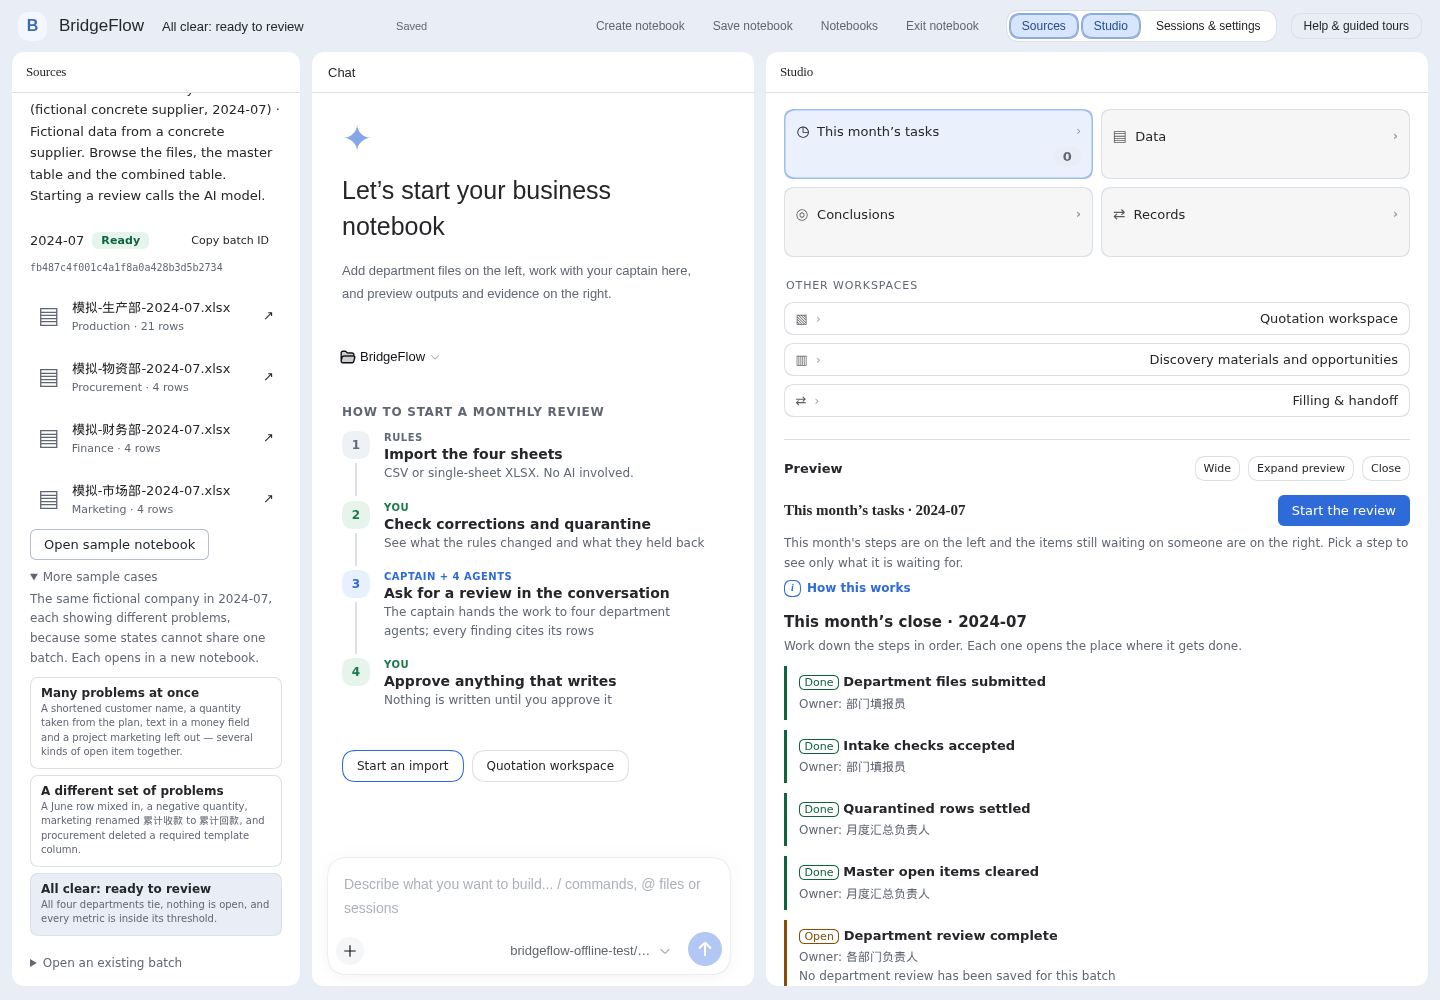
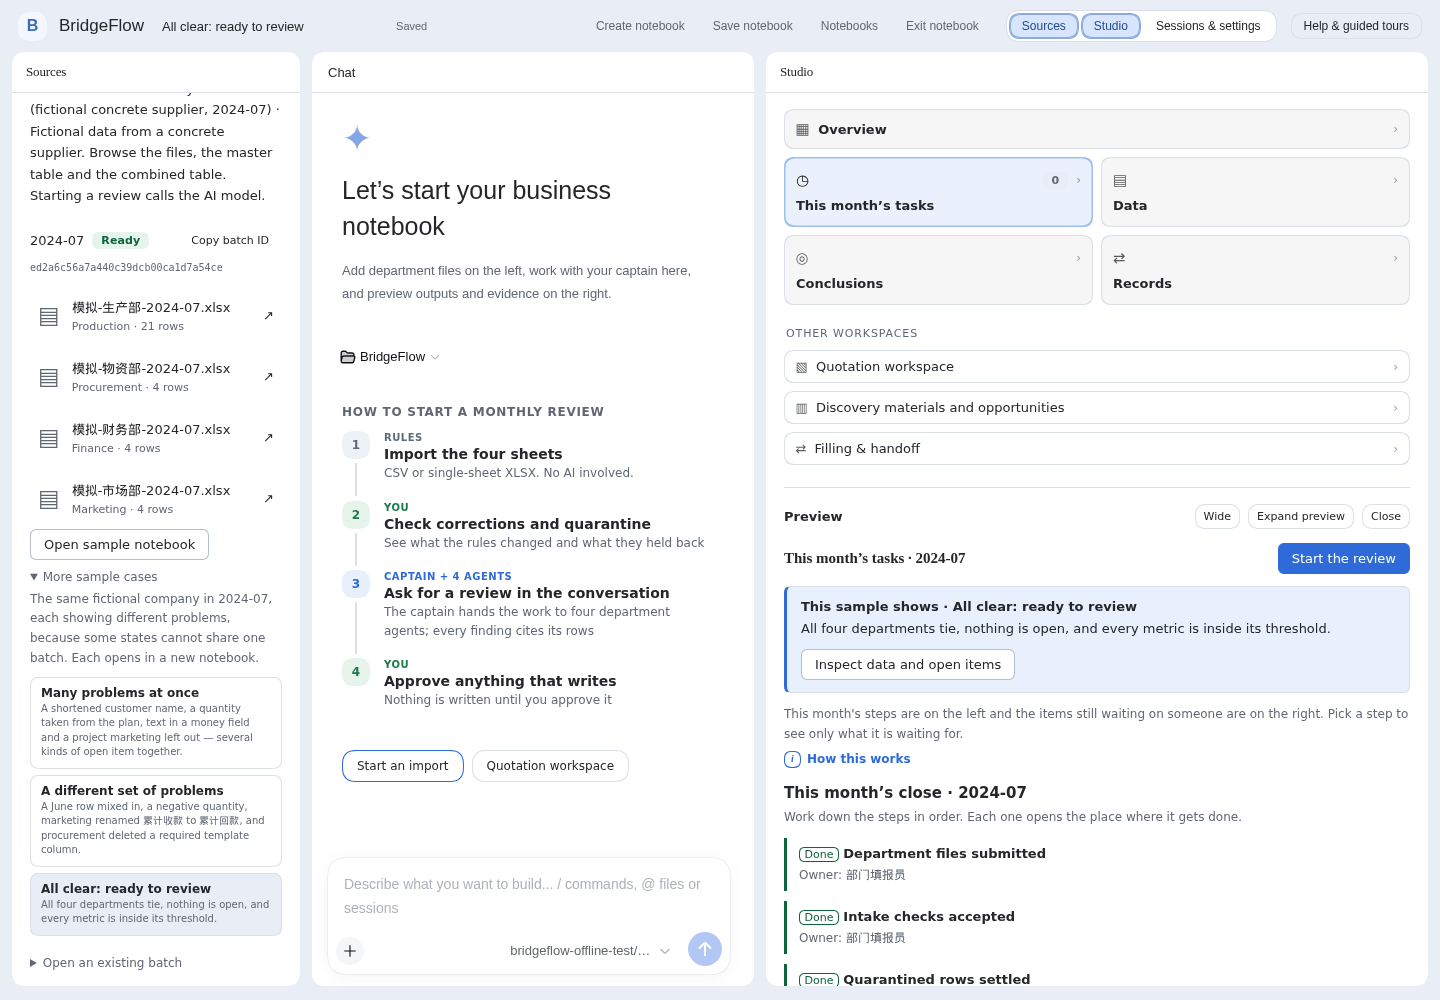
Keep sample notebooks isolated and explain their review path

diff --git a/plugins/src/tools/checklist.ts b/plugins/src/tools/checklist.ts
@@ -27,11 +27,12 @@ export function renderChecklist(result: { period?: string; batch_id?: string; re
 export function checklistTool(config: BackendConfig): ProductTool {
   return withAccess(defineTool({
     name: 'monthly_checklist',
-    description: 'The monthly close checklist for a period: the batch the month is bound to, each declared step with its state (done, open, blocked, unknown), how many things are outstanding, who owns it, and whether the month is ready to close. Counts and names only, never rows. Also the way to find a month\'s batch when someone names a month but no batch id.',
-    parameters: { period: { type: 'string', required: true, description: 'YYYY-MM' } },
+    description: 'The monthly close checklist for a period: the batch it is bound to, each step and who owns it. Pass batch_id when the person is looking at a specific notebook; without it, the latest batch for that period is used. Counts and names only, never rows.',
+    parameters: { period: { type: 'string', required: true, description: 'YYYY-MM' },
+      batch_id: { type: 'string', description: 'Exact batch from the current notebook, if known' } },
     output: { schema: { type: 'object', additionalProperties: true }, render: (_args, value) => renderChecklist(value as Parameters<typeof renderChecklist>[0]) },
     async execute(args, exec) {
-      return callBackend<Record<string, Json>>(config, '/tools/monthly-checklist', { period: args.period }, exec)
+      return callBackend<Record<string, Json>>(config, '/tools/monthly-checklist', { period: args.period, batch_id: args.batch_id ?? '' }, exec)
     },
   }), { kind: 'read' })
 }
@@ -43,7 +44,7 @@ export function checklistTool(config: BackendConfig): ProductTool {
  * and settling happens in the module that holds the evidence and the approval.
  */
 type InboxArgs = { department?: string; kind?: string }
-type InboxText = { total?: number; by_kind?: Record<string, number>; by_department?: Record<string, number>
+type InboxText = { batch_id?: string; total?: number; by_kind?: Record<string, number>; by_department?: Record<string, number>
   items?: { kind: string; subject?: string; detail?: string; departments?: string[]; next_view?: string }[] }
 /**
  * The items themselves, not only their counts. Counts alone sent a real captain back for
@@ -57,7 +58,8 @@ export function renderInbox(args: InboxArgs, result: InboxText) {
   const filter = [args.department && `department=${args.department}`, args.kind && `kind=${args.kind}`].filter(Boolean).join(', ')
   const lines = items.slice(0, 15).map(item => `- ${item.kind}: ${item.subject || '(no subject)'}${item.detail ? ` — ${item.detail}` : ''}`
     + ` [departments: ${(item.departments ?? []).join('/') || 'all'}; settled in: ${item.next_view || 'its module'}]`)
-  return [{ type: 'text' as const, text: `${result.total ?? 0} open item(s) in the period (by kind: ${kinds || 'none'}). `
+  const scope = result.batch_id ? `batch ${result.batch_id}` : 'this period (no batch found)'
+  return [{ type: 'text' as const, text: `${result.total ?? 0} open item(s) in ${scope} (by kind: ${kinds || 'none'}). `
     + `${filter ? `Filtered by ${filter}: ` : ''}${items.length} listed${items.length > 15 ? ', first 15 shown' : ''}.`
     + (lines.length ? `\n${lines.join('\n')}` : '') }]
 }
@@ -65,16 +67,17 @@ export function renderInbox(args: InboxArgs, result: InboxText) {
 export function inboxTool(config: BackendConfig): ProductTool {
   return withAccess(defineTool({
     name: 'monthly_inbox',
-    description: 'Open items for a period across modules (master questions, quarantined rows, column questions, a review left on corrected data): counts by kind and department, and each item with where it is settled. Never rows or cell values; the inbox decides nothing.',
+    description: 'Open items for a period across modules. Pass batch_id when the person is looking at a specific notebook; without it, the latest batch for that period is used. Counts by kind and department, with where each item is settled. Never rows or cell values; the inbox decides nothing.',
     parameters: {
       period: { type: 'string', required: true, description: 'YYYY-MM' },
+      batch_id: { type: 'string', description: 'Exact batch from the current notebook, if known' },
       department: { type: 'string', description: 'Narrow the listing to one department' },
       kind: { type: 'string', description: 'Narrow the listing to one kind of item' },
     },
     output: { schema: { type: 'object', additionalProperties: true }, render: (args, value) => renderInbox(args as InboxArgs, value as InboxText) },
     async execute(args, exec) {
       return callBackend<Record<string, Json>>(config, '/tools/monthly-inbox',
-        { period: args.period, department: args.department ?? '', kind: args.kind ?? '' }, exec)
+        { period: args.period, batch_id: args.batch_id ?? '', department: args.department ?? '', kind: args.kind ?? '' }, exec)
     },
   }), { kind: 'read' })
 }

diff --git a/plugins/src/client/tasks.tsx b/plugins/src/client/tasks.tsx
@@ -1,9 +1,31 @@
-import { useState } from 'react'
+import { useEffect, useState } from 'react'
 import { CloseChecklist, OpenItemInbox } from './checklist.tsx'
 import { WorkflowProgress } from './workflow-progress.tsx'
-import { describeError, startReview, useUI, type Summary } from './ui.ts'
+import { api, describeError, navigate, startReview, useUI, type Summary } from './ui.ts'
 import { Explain } from './explain.tsx'
 import type { projectAudit } from './audit.ts'
+
+type DemoCase = { case_id: string; title: [string, string]; summary: [string, string] }
+
+function DemoCaseGuide({ caseId, batchId }: { caseId: string; batchId: string }) {
+  const { t, language } = useUI()
+  const [sample, setSample] = useState<DemoCase | null>(null)
+  useEffect(() => {
+    const controller = new AbortController()
+    setSample(null)
+    void api<{ cases: DemoCase[] }>('/batches/demo/cases', { signal: controller.signal })
+      .then(value => setSample(value.cases.find(item => item.case_id === caseId) ?? null))
+      .catch(() => { if (!controller.signal.aborted) setSample(null) })
+    return () => controller.abort()
+  }, [caseId])
+  if (!sample) return null
+  const pick = (pair: [string, string]) => pair[language === 'zh' ? 0 : 1]
+  return <div className="bf-callout bf-demo-guide" data-tone="info" role="note">
+    <h3>{t('sampleCaseLabel')} · {pick(sample.title)}</h3>
+    <p>{pick(sample.summary)}</p>
+    <button onClick={() => navigate({ batch: batchId, view: 'data' })}>{t('sampleCaseOpenData')}</button>
+  </div>
+}
 
 /**
  * 本月任务 — the one page that answers "what is still on me this month" (E14-UC01 + E14-UC05).
@@ -27,15 +49,18 @@ export function TasksView({ batchId, summary, audit, savedReportStatus, notebook
   const [focus, setFocus] = useState('')
   const [busy, setBusy] = useState(false), [error, setError] = useState('')
   if (!summary) return <p className="bf-hint">{t('studioStartHelp')}</p>
+  const reviewReady = summary.status === 'ready'
   return <section className="bf-tasks" aria-label={t('closeChecklist')}>
     <div className="bf-card-head">
       <h3>{t('monthlyTasks')} · {summary.period}</h3>
-      <button className="bf-primary" disabled={busy} onClick={async () => {
+      <button className="bf-primary" disabled={busy || !reviewReady} onClick={async () => {
         setError(''); setBusy(true)
         try { await startReview(batchId, summary.period); onRefresh() }
         catch (e) { setError(describeError(e, t)) } finally { setBusy(false) }
       }} data-tour-id="review-start">{t(busy ? 'busy' : 'startReview')}</button>
     </div>
+    {summary.demo_case && <DemoCaseGuide caseId={summary.demo_case} batchId={batchId} />}
+    {!reviewReady && <p className="bf-hint" role="status">{t('reviewNeedsReady')}</p>}
     <p className="bf-hint">{t('monthlyTasksHelp')}</p>
     <Explain text={t('how_tasks')} />
     {error && <p role="alert" className="bf-error">{error}</p>}

diff --git a/plugins/src/client/ui.ts b/plugins/src/client/ui.ts
@@ -122,6 +122,9 @@ const labels = {
   runTokens: ['tokens（发起工具调用的模型步骤）', 'tokens (model steps that called tools)'],
   sampleCases: ['更多示例', 'More sample cases'],
   sampleCasesHelp: ['同一家虚构公司的 2024-07，分别展示不同的问题；有些状态不能放在同一个批次里。每个示例打开成一个新笔记本。', 'The same fictional company in 2024-07, each showing different problems, because some states cannot share one batch. Each opens in a new notebook.'],
+  sampleCaseLabel: ['本示例展示', 'This sample shows'],
+  sampleCaseOpenData: ['查看数据与待确认项', 'Inspect data and open items'],
+  reviewNeedsReady: ['此批次尚需处理数据问题，完成下面的检查后才能发起研判；一处源数据问题可能带出多条下游待办。现在不会向模型发送请求。', 'This batch needs data fixes before a review. One source problem can create several downstream open items. No model request will be sent yet.'],
   reviewBlockers: ['研判会被拒绝，原因：', 'The review would refuse this batch:'],
   next_blocked: ['请修正源表，再用「单部门补传」替换出错部门的文件，这会生成新批次。', 'Correct the source file, then replace that department\'s file; that creates a new batch.'],
   workflowFlow: ['填报与流转流程', 'Filling and handoff flow'],

diff --git a/plugins/src/client/checklist.tsx b/plugins/src/client/checklist.tsx
@@ -31,7 +31,7 @@ export function OpenItemInbox({ period, batchId, focusView = '', onClearFocus }:
     if (!period) return
     const controller = new AbortController()
     setInbox(null); setError('')
-    const query = `period=${encodeURIComponent(period)}${department ? `&department=${encodeURIComponent(department)}` : ''}`
+    const query = `period=${encodeURIComponent(period)}&batch_id=${encodeURIComponent(batchId)}${department ? `&department=${encodeURIComponent(department)}` : ''}`
     void api<Inbox>(`/monthly/inbox?${query}`, { signal: controller.signal })
       .then(setInbox).catch(e => { if (!controller.signal.aborted) setError(describeError(e, t)) })
     return () => controller.abort()
@@ -71,7 +71,7 @@ export function CloseChecklist({ period, batchId, onImport, onFocus, focusView =
     if (!period) return
     const controller = new AbortController()
     setList(null); setError('')
-    void api<Checklist>(`/monthly/checklist?period=${encodeURIComponent(period)}`, { signal: controller.signal })
+    void api<Checklist>(`/monthly/checklist?period=${encodeURIComponent(period)}&batch_id=${encodeURIComponent(batchId)}`, { signal: controller.signal })
       .then(setList).catch(e => { if (!controller.signal.aborted) setError(describeError(e, t)) })
     return () => controller.abort()
   }, [period, batchId])

diff --git a/plugins/src/client/overview.tsx b/plugins/src/client/overview.tsx
@@ -111,8 +111,8 @@ export function Overview({ batchId }: { batchId: string }) {
   const [tables, setTables] = useState(false), [revision, setRevision] = useState(0)
   const summary = useSource<Summary>(batchId ? `/batches/${batchId}` : null, [])
   const period = summary && !(summary instanceof Error) ? summary.period : ''
-  const checklist = useSource<Checklist>(period ? `/monthly/checklist?period=${encodeURIComponent(period)}` : null, [])
-  const inbox = useSource<Inbox>(period ? `/monthly/inbox?period=${encodeURIComponent(period)}` : null, [])
+  const checklist = useSource<Checklist>(period ? `/monthly/checklist?period=${encodeURIComponent(period)}&batch_id=${encodeURIComponent(batchId)}` : null, [])
+  const inbox = useSource<Inbox>(period ? `/monthly/inbox?period=${encodeURIComponent(period)}&batch_id=${encodeURIComponent(batchId)}` : null, [])
   const charts = useSource<{ charts: Chart[]; refusal?: string }>(batchId ? `/conclusions/batches/${batchId}/charts` : null, [revision])
   const board = useSource<{ rows: BoardRow[] }>('/workflow/board', [])
   const runs = useSource<{ runs: Run[] }>('/journal/runs?limit=12', [])

diff --git a/plugins/tests/render-handles.test.ts b/plugins/tests/render-handles.test.ts
@@ -40,7 +40,9 @@ test('risk_dispositions shows the version that risk_disposition_record checks', 
 test('monthly_inbox lists the items and the filter, not only counts', async () => {
   const { renderInbox } = await import('../src/tools/checklist.ts')
   const out = text(renderInbox({ department: 'finance' }, { total: 2, by_kind: { master_disagreement: 1, missing_provenance: 1 },
+    batch_id: 'selected-notebook-batch',
     items: [{ kind: 'master_disagreement', subject: '客户名称', detail: '生产部与市场部不一致', departments: ['production', 'marketing'], next_view: 'integration' }] }))
+  assert.match(out, /in batch selected-notebook-batch/)
   assert.match(out, /Filtered by department=finance: 1 listed/)
   assert.match(out, /master_disagreement: 客户名称 — 生产部与市场部不一致 \[departments: production\/marketing; settled in: integration\]/)
 })

diff --git a/plugins/src/client/data.tsx b/plugins/src/client/data.tsx
@@ -32,7 +32,7 @@ export function DataView({ batchId, summary, sources, onImport, onRefresh }: {
     if (!summary?.period) return
     const controller = new AbortController()
     setQuality(null)
-    void api<Quality>(`/monthly/inbox?period=${encodeURIComponent(summary.period)}`, { signal: controller.signal })
+    void api<Quality>(`/monthly/inbox?period=${encodeURIComponent(summary.period)}&batch_id=${encodeURIComponent(batchId)}`, { signal: controller.signal })
       .then(setQuality).catch(e => { if (!controller.signal.aborted) setError(describeError(e, t)) })
     return () => controller.abort()
   }, [summary?.period, batchId])

diff --git a/plugins/src/client/shell.tsx b/plugins/src/client/shell.tsx
@@ -73,7 +73,7 @@ function Shell({ ctx }: { ctx: Context }) {
   useEffect(() => {
     if (!summary?.period) { setOpenItems(0); return }
     const controller = new AbortController()
-    void api<{ total: number }>(`/monthly/inbox?period=${encodeURIComponent(summary.period)}`, { signal: controller.signal })
+    void api<{ total: number }>(`/monthly/inbox?period=${encodeURIComponent(summary.period)}&batch_id=${encodeURIComponent(batchId)}`, { signal: controller.signal })
       .then(value => setOpenItems(value.total)).catch(() => setOpenItems(0))
     return () => controller.abort()
   }, [summary?.period, batchId, revision])

diff --git a/plugins/src/client/style.ts b/plugins/src/client/style.ts
@@ -495,6 +495,7 @@ body[data-ds-dark-theme] .bf-panel::backdrop { background: #04080d9e }
 
 .bf-tasks-split { display: flex; flex-wrap: wrap; gap: 16px; align-items: flex-start }
 .bf-tasks-split > * { flex: 1 1 340px; min-width: 0 }
+.bf-demo-guide button { margin-top: 10px }
 .bf-checklist li[data-focused=true] { background: var(--bf-accent-soft); border-radius: 8px }
 .bf-tasks-workflow { margin-top: 14px }
 .bf-tasks-workflow > summary { font-size: 13px; color: var(--bf-muted); cursor: pointer }

diff --git a/backend/src/bridgeflow/api/checklist.py b/backend/src/bridgeflow/api/checklist.py
@@ -25,14 +25,19 @@ from bridgeflow.monthly import inbox as inbox_module
 router = APIRouter(tags=["checklist"])
 
 
-def _context(period: str, user: UserIdentity | None) -> tuple[checklist_module.Context, dict | None, str]:
+def _context(period: str, user: UserIdentity | None, batch_id: str = "") -> tuple[checklist_module.Context, dict | None, str]:
     """Gather what the steps read. Every read that can fail is caught and reported as such."""
     ctx = checklist_module.Context(period=period)
-    entry = periods.latest_for(period, _visibility(user))
-    if entry is None:
-        return ctx, None, ""
-    batch_id = entry["batch_id"]
-    batch = _visible(load_batch(batch_id), user)
+    if batch_id:
+        batch = _visible(load_batch(batch_id), user)
+        if batch.period != period:
+            raise HTTPException(422, "Batch does not belong to the requested period")
+    else:
+        entry = periods.latest_for(period, _visibility(user))
+        if entry is None:
+            return ctx, None, ""
+        batch_id = entry["batch_id"]
+        batch = _visible(load_batch(batch_id), user)
     ctx.batch_id, ctx.batch = batch_id, batch
     if batch.integration_snapshot is not None:
         from bridgeflow.api.integration import _result
@@ -62,8 +67,8 @@ def _visibility(user: UserIdentity | None):
     return allowed
 
 
-def _build(period: str, user: UserIdentity | None) -> checklist_module.Checklist:
-    ctx, dictionary, declaration = _context(period, user)
+def _build(period: str, user: UserIdentity | None, batch_id: str = "") -> checklist_module.Checklist:
+    ctx, dictionary, declaration = _context(period, user, batch_id)
     if ctx.batch is None:
         from bridgeflow.api.batches import _load_dictionary
         from bridgeflow.metrics import dictionary_path
@@ -74,8 +79,9 @@ def _build(period: str, user: UserIdentity | None) -> checklist_module.Checklist
 @router.get("/monthly/checklist", response_model=checklist_module.Checklist)
 async def monthly_checklist(user: Annotated[UserIdentity | None, Depends(require_user)],
                             period: Annotated[str, Query(pattern=r"^\d{4}-(0[1-9]|1[0-2])$")],
+                            batch_id: str = "",
                             ) -> checklist_module.Checklist:
-    return _build(period, user)
+    return _build(period, user, batch_id)
 
 
 @router.post("/tools/monthly-checklist")
@@ -84,7 +90,7 @@ async def monthly_checklist_tool(request: dict) -> dict:
     period = str(request.get("period", ""))
     if not period:
         raise HTTPException(422, "Give the period as YYYY-MM")
-    result = _build(period, None)
+    result = _build(period, None, str(request.get("batch_id") or ""))
     open_steps = [s for s in result.steps if s.state != "done"]
     return {
         "period": result.period, "batch_id": result.batch_id, "ready_to_close": result.ready_to_close,
@@ -99,8 +105,8 @@ async def monthly_checklist_tool(request: dict) -> dict:
     }
 
 
-def _inbox_context(period: str, user: UserIdentity | None) -> inbox_module.Context:
-    ctx, _dictionary, _declaration = _context(period, user)
+def _inbox_context(period: str, user: UserIdentity | None, batch_id: str = "") -> inbox_module.Context:
+    ctx, _dictionary, _declaration = _context(period, user, batch_id)
     return inbox_module.Context(batch_id=ctx.batch_id, period=period, batch=ctx.batch, master=ctx.master,
                                 has_report=ctx.report is not None,
                                 confirmed=sorted(conventions.confirmed(
@@ -109,19 +115,25 @@ def _inbox_context(period: str, user: UserIdentity | None) -> inbox_module.Conte
 
 
 def _reported_earlier(period: str, batch_id: str, user: UserIdentity | None) -> list[str]:
-    """Other batches of this month that carry a saved review."""
+    """Reviewed ancestors of this batch, excluding unrelated notebooks in the same month."""
     from bridgeflow.api.reviews import saved_review
 
     found = []
-    for entry in periods.batches_for(period):
-        other = entry["batch_id"]
-        if other == batch_id or not _visibility(user)(entry):
-            continue
+    entries = {entry["batch_id"]: entry for entry in periods.batches_for(period)}
+    ancestor = entries.get(batch_id, {}).get("derived_from")
+    seen = set()
+    while ancestor and ancestor in entries and ancestor not in seen:
+        seen.add(ancestor)
+        entry = entries[ancestor]
+        if not _visibility(user)(entry):
+            break
         try:
-            saved_review(other)
+            saved_review(ancestor)
         except HTTPException:
-            continue
-        found.append(other)
+            pass
+        else:
+            found.append(ancestor)
+        ancestor = entry.get("derived_from")
     return found
 
 
@@ -133,13 +145,13 @@ def _scope(user: UserIdentity | None) -> inbox_module.Scope:
 @router.get("/monthly/inbox")
 async def open_item_inbox(user: Annotated[UserIdentity | None, Depends(require_user)],
                           period: Annotated[str, Query(pattern=r"^\d{4}-(0[1-9]|1[0-2])$")],
-                          department: str = "", kind: str = "") -> dict:
+                          department: str = "", kind: str = "", batch_id: str = "") -> dict:
     """What is still waiting on someone, across modules (E14-UC05).
 
     Every item carries where to settle it and nothing else: the inbox never decides for the
     module that owns the evidence and the approval path.
     """
-    return inbox_module.collect(_inbox_context(period, user), _scope(user), department=department, kind=kind)
+    return inbox_module.collect(_inbox_context(period, user, batch_id), _scope(user), department=department, kind=kind)
 
 
 @router.post("/tools/monthly-inbox")
@@ -148,7 +160,7 @@ async def open_item_inbox_tool(request: dict) -> dict:
     period = str(request.get("period", ""))
     if not period:
         raise HTTPException(422, "Give the period as YYYY-MM")
-    result = inbox_module.collect(_inbox_context(period, None), inbox_module.Scope(all=True),
+    result = inbox_module.collect(_inbox_context(period, None, str(request.get("batch_id") or "")), inbox_module.Scope(all=True),
                                   department=str(request.get("department", "")), kind=str(request.get("kind", "")))
     return result | {"next_step": ("Say what is waiting, on whom, and where it is settled. The inbox itself decides "
                                    "nothing: each item is handled in its own module, with its own approval.")}

diff --git a/backend/tests/test_demo_cases.py b/backend/tests/test_demo_cases.py
@@ -31,7 +31,26 @@ def load(client, case):
 def test_the_case_list_names_every_case(client):
     cases = client.get("/batches/demo/cases").json()["cases"]
     assert [c["id"] for c in cases] == ["tour", "core", "other", "clean"]
+    assert [c["case_id"] for c in cases] == ["mock-company-2024-07", "demo-core-2024-07", "demo-other-2024-07", "demo-clean-2024-07"]
     assert all(len(c["title"]) == 2 and len(c["summary"]) == 2 for c in cases)
+
+
+def test_monthly_views_stay_bound_to_each_sample_notebook(client):
+    batches = {name: client.post(f"/batches/demo?case={name}").json()["batch_id"]
+               for name in ("core", "other", "clean")}
+    period = "2024-07"
+    inboxes = {name: client.get(f"/monthly/inbox?period={period}&batch_id={batch_id}").json()
+               for name, batch_id in batches.items()}
+    for name, batch_id in batches.items():
+        assert inboxes[name]["batch_id"] == batch_id
+        checklist = client.get(f"/monthly/checklist?period={period}&batch_id={batch_id}").json()
+        assert checklist["batch_id"] == batch_id
+    assert inboxes["core"]["total"] > inboxes["clean"]["total"]
+    assert inboxes["other"]["total"] > inboxes["clean"]["total"]
+    assert client.get(f"/monthly/inbox?period={period}").json()["batch_id"] == batches["clean"]
+    assert client.post("/tools/monthly-inbox", json={"period": period, "batch_id": batches["core"]}).json()["batch_id"] == batches["core"]
+    assert client.post("/tools/monthly-checklist", json={"period": period, "batch_id": batches["other"]}).json()["batch_id"] == batches["other"]
+    assert client.get(f"/monthly/inbox?period=2024-06&batch_id={batches['core']}").status_code == 422
 
 
 def test_the_core_case_shows_many_problems_at_once(client):

diff --git a/backend/tests/test_inbox.py b/backend/tests/test_inbox.py
@@ -109,6 +109,15 @@ def test_a_report_left_on_corrected_data_shows_up_as_an_item(client):
     assert len(stale) == 1 and stale[0]["subject"] == batch and stale[0]["next_view"] == "state"
 
 
+def test_a_review_on_an_unrelated_sample_is_not_a_stale_report(client):
+    first = client.post("/batches/demo").json()["batch_id"]
+    finalize(client, first)
+    other = client.post("/batches/demo?case=clean").json()["batch_id"]
+    result = inbox(client, batch_id=other)
+    assert result["batch_id"] == other
+    assert not [item for item in result["items"] if item["kind"] == "stale_report"]
+
+
 def test_the_captain_sees_counts_by_kind_and_department(client):
     client.post("/batches/demo")
     result = client.post("/tools/monthly-inbox", json={"period": "2024-07"}).json()
